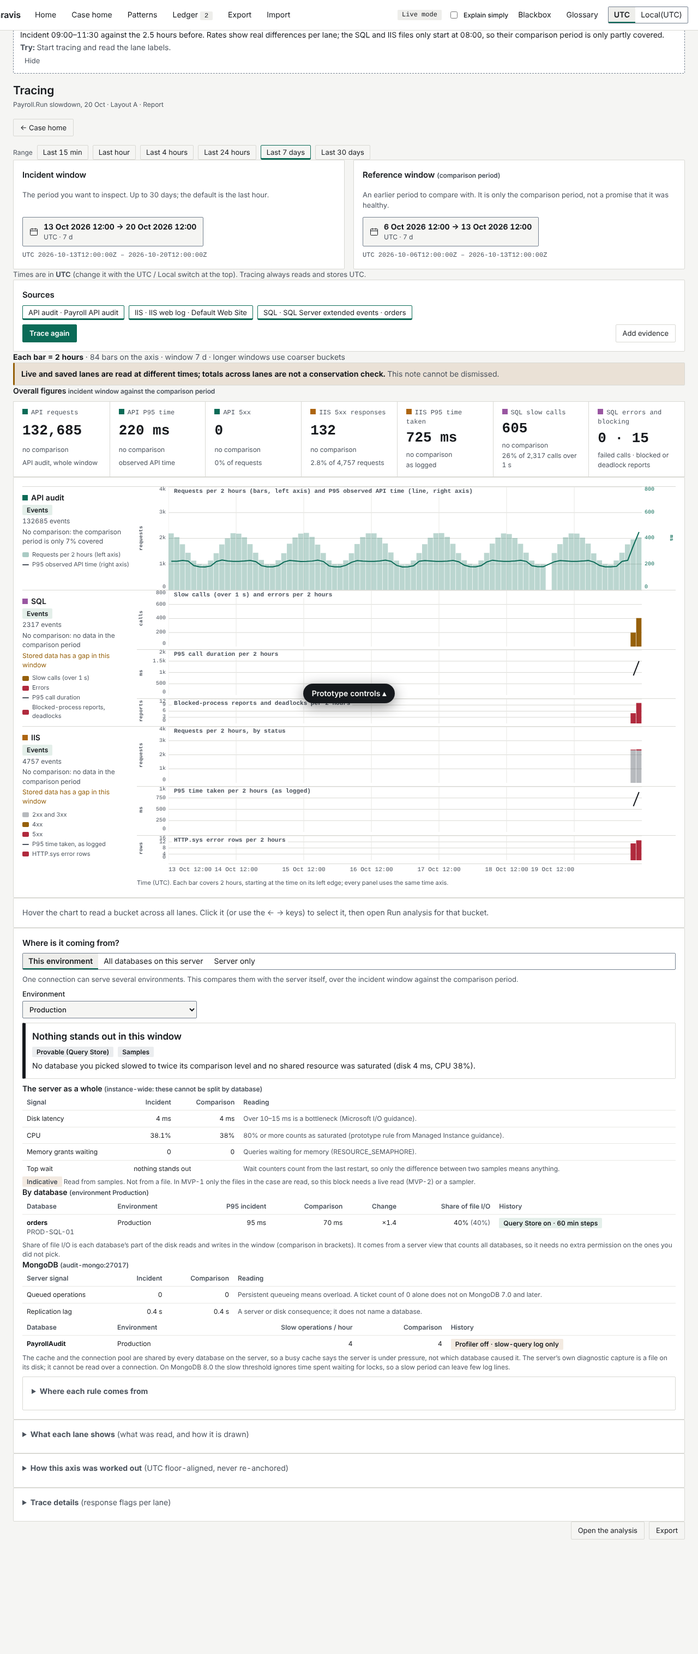
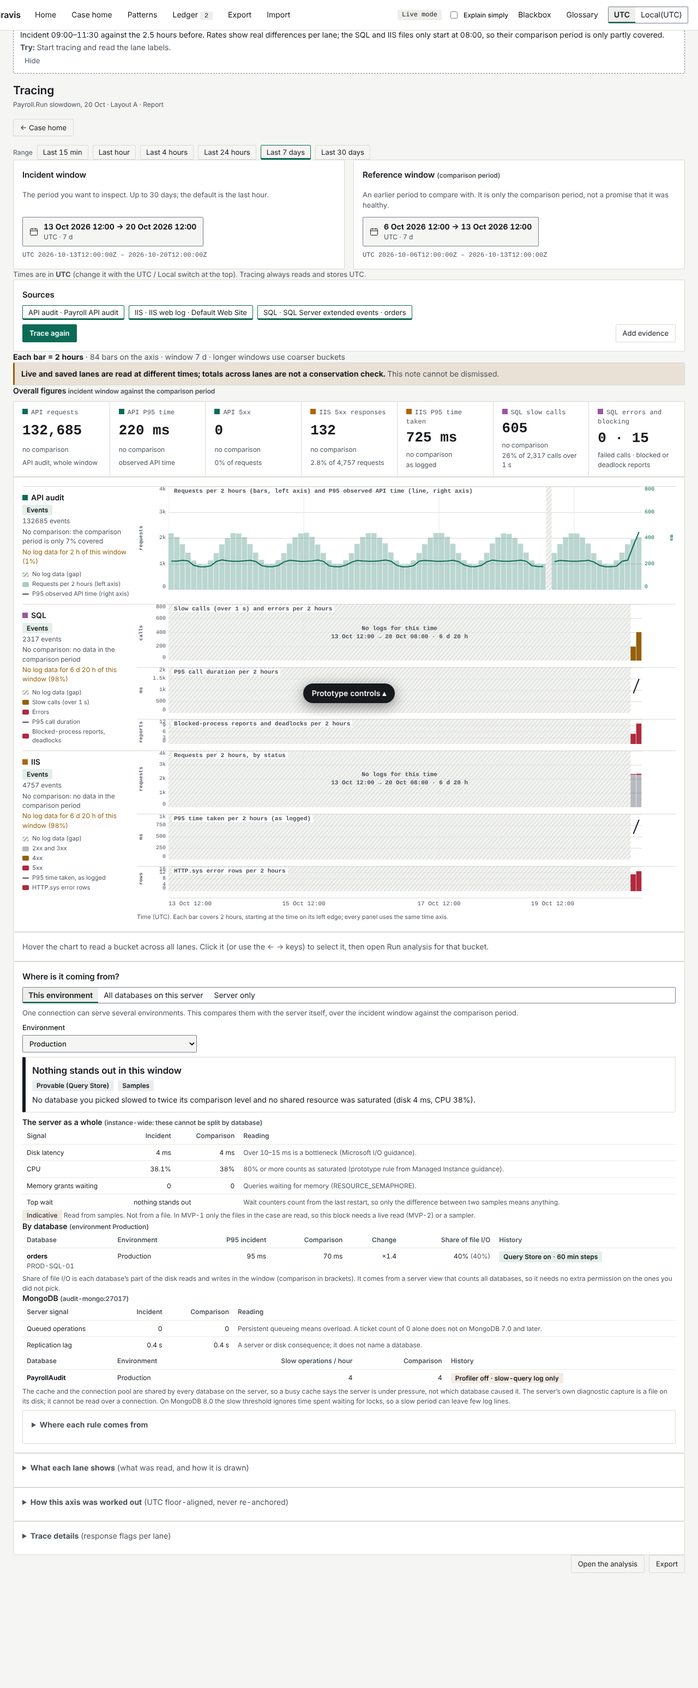
Prototype: every lane spans the whole window; missing log time is a labelled gap
Claude-Session: https://claude.ai/code/session_01BUytozocgnrWPT9uUCHJxQ

diff --git a/prototype/tracing-paper-PROTOTYPE.html b/prototype/tracing-paper-PROTOTYPE.html
@@ -138,7 +138,7 @@ pre.json { margin:0; padding:8px; background:var(--bg); border:1px solid var(--l
 .tc2 .yax { position:relative; border-top:1px solid var(--line); font:10px var(--mono); color:var(--text-2); } .tc2 .yax .t { position:absolute; pointer-events:none; line-height:1; } .tc2 .yax .u { position:absolute; left:3px; top:50%; transform:translateY(-50%) rotate(180deg); writing-mode:vertical-rl; font-weight:600; font-size:9px; letter-spacing:.03em; white-space:nowrap; } .tc2 .yax.r .u { left:auto; right:3px; transform:translateY(-50%); writing-mode:vertical-rl; color:var(--accent); } .tc2 .yax.r .t { color:var(--accent); }
 @media (max-width:700px) { .tc2 { grid-template-columns:92px 34px minmax(0, 1fr) 40px; } .tc2 .lgs { display:none; } .tc2 .yax .u { display:none; } }
 .tc2 .axisrow { height:24px; } .tc2 .axcap { font-size:11px; color:var(--text-2); padding:4px 0 2px; } .tc2 .plot { display:none; }
-.tscroll { overflow-x:auto; max-width:100%; } .attr, .attr > .stack, .attr .tscroll { min-width:0; } .attr > .stack { display:grid; grid-template-columns:minmax(0, 1fr); } .dbrow { display:grid; gap:4px; padding:var(--s2) 0; border-bottom:1px solid var(--line); } .dbrow:last-of-type { border-bottom:0; }
+.tc2 .gaplab { position:absolute; top:50%; transform:translateY(-50%); z-index:1; text-align:center; font:600 11px var(--mono); color:var(--text-2); pointer-events:none; line-height:1.4; } .tc2 .lg i.gapsw { background:repeating-linear-gradient(135deg, #8fa39a 0 2px, transparent 2px 5px), var(--surface-2) !important; border:1px solid var(--line); } .tscroll { overflow-x:auto; max-width:100%; } .attr, .attr > .stack, .attr .tscroll { min-width:0; } .attr > .stack { display:grid; grid-template-columns:minmax(0, 1fr); } .dbrow { display:grid; gap:4px; padding:var(--s2) 0; border-bottom:1px solid var(--line); } .dbrow:last-of-type { border-bottom:0; }
 .verdict { border:1px solid var(--line); border-left-width:6px; border-radius:var(--r); padding:var(--s3); background:var(--surface); display:grid; gap:6px; } .verdict h4 { margin:0; font-size:17px; } .verdict.env { border-left-color:var(--lane-sql); } .verdict.server { border-left-color:var(--bad); } .verdict.noisy { border-left-color:var(--warn); } .verdict.blind { border-left-color:var(--text-2); } .verdict.quiet { border-left-color:var(--ok); }
 .shbar { display:inline-block; height:8px; border-radius:2px; background:var(--lane-sql); vertical-align:middle; min-width:2px; } .shbar.oth { background:var(--warn); }
 .num { font-variant-numeric:tabular-nums; text-align:right; }
@@ -1176,7 +1176,7 @@ function doTrace(c) {
   const lanes = ['audit', 'sql', 'iis'].map(key => { const L = { key, label:{ audit:'API audit', sql:'SQL', iis:'IIS' }[key] }, chs = chosen.filter(s => s.lane === key); Object.assign(L, { sources:chs.map(s => ({ sourceId:s.id, label:s.label })), truncated:false });
     const refCmp = (tot, refTot, cov, refP95) => (cov >= 0.8 && refTot >= SUFFICIENT_REF ? { rate:(tot / (incSpan / MIN)) / (refTot / (refSpan / MIN)), refTot, refP95 } : { rate:null, refTot, why:refTot === 0 ? 'no data in the comparison period' : cov < 0.8 ? 'the comparison period is only ' + Math.round(cov * 100) + '% covered' : 'too few events in the comparison period' });
     if (!chs.length) return Object.assign(L, { state:'no-data', reason:'This case has no file for this source', origin:'case', asOf:isoZ(NOW), consistency:'stored-as-of', complete:true, total:0, buckets:null });
-    if (key === 'audit') { const as = auditSlots(ax), counts = as.counts, tot = sum(counts), ra = auditWindow(ref.start, ref.end), over = RT.sim.auditOver, ia = auditWindow(q.start, q.end); L.series = { p95:as.p95 }; L.stats = { inc:{ n:ia.n, c4:ia.e4, c5:ia.e5, p95:ia.p95 }, ref:{ n:ra.n, c4:ra.e4, c5:ra.e5, p95:ra.p95 } };
+    if (key === 'audit') { const as = auditSlots(ax), counts = as.counts, tot = sum(counts), ra = auditWindow(ref.start, ref.end), over = RT.sim.auditOver, ia = auditWindow(q.start, q.end); L.gapIv = auditGaps(q.start, q.end); L.series = { p95:as.p95 }; L.stats = { inc:{ n:ia.n, c4:ia.e4, c5:ia.e5, p95:ia.p95 }, ref:{ n:ra.n, c4:ra.e4, c5:ra.e5, p95:ra.p95 } };
       if (RT.sim.auditFail) return Object.assign(L, { state:'incomplete', reason:'error: The audit source could not be reached. Nothing was shortened.', origin:'live', asOf:isoZ(NOW), consistency:'live-non-snapshot', complete:false, total:0, buckets:new Array(ax.n).fill(0), incompleteFrom:0 });
       if (!tot) return Object.assign(L, { state:'none-seen', reason:'Nothing was seen in this window. The audit source keeps records from ' + fmtDT(DATA_FROM, { zone:'UTC', year:true, zoneLabel:true }) + '.', origin:'live', asOf:isoZ(NOW), consistency:'live-non-snapshot', complete:true, total:0, buckets:null, cmp:refCmp(0, ra.n, ra.coverage) });
       return Object.assign(L, over ? { state:'incomplete', reason:'timeout: The audit read reached its time or row limit; nothing was shortened.', origin:'live', asOf:isoZ(NOW), consistency:'live-non-snapshot', complete:false, total:sum(counts.map((x, i) => (i < Math.floor(ax.n * 0.4) ? x : 0))), buckets:counts.map((x, i) => (i < Math.floor(ax.n * 0.4) ? x : 0)), incompleteFrom:Math.floor(ax.n * 0.4), cmp:refCmp(tot, ra.n, ra.coverage, ra.p95) } : { state:'events', reason:'', origin:'live', asOf:isoZ(NOW), consistency:'live-non-snapshot', complete:true, total:tot, buckets:counts, note:'Read began at ' + isoZ(NOW) + '. Not a snapshot; rows inserted during the read may be included.', cmp:refCmp(tot, ra.n, ra.coverage, ra.p95) }); }
@@ -1186,7 +1186,7 @@ function doTrace(c) {
     if (!imps.some(i => i.to > q.start && i.from < q.end)) return Object.assign(L, common, { state:'out-of-range', reason:'Files do not cover this time', complete:true, total:0, buckets:null, cmp:null });
     L.stats = { inc:laneWin(key, imps, q.start, q.end), ref:laneWin(key, imps, ref.start, ref.end) };
     const lb = laneBuckets(key, imps, ax), gaps = gapsOf(imps, q.start, q.end), edgeBad = RT.sim.edgeOver && ax.scans.length > 0, rs0 = laneStats(key, imps, ref.start, ref.end), rt = rs0.n, rc = coverageFraction(imps, ref.start, ref.end);
-    Object.assign(L, common, { total:lb.total, buckets:lb.counts, series:lb.series, complete:!edgeBad, coverageGaps:gaps.map(g => fmtDT(g.from) + ' → ' + fmtDT(g.to)), cmp:refCmp(lb.total, rt, rc, rs0.p95), gapFrac:gaps.reduce((s, g) => s + g.to - g.from, 0) / incSpan });
+    Object.assign(L, common, { total:lb.total, buckets:lb.counts, series:lb.series, complete:!edgeBad, coverageGaps:gaps.map(g => fmtDT(g.from) + ' → ' + fmtDT(g.to)), gapIv:gaps, cmp:refCmp(lb.total, rt, rc, rs0.p95), gapFrac:gaps.reduce((s, g) => s + g.to - g.from, 0) / incSpan });
     if (!lb.total) { L.state = 'none-seen'; L.reason = 'Files cover this time and nothing was seen'; L.buckets = null; } else if (edgeBad) { L.state = 'incomplete'; L.reason = 'rowcap: a boundary fragment went over MaxEdgeScanRows (50,000); affected buckets are not exact'; } else L.state = 'events'; return L; });
   return { status:200, window:{ start:isoZ(q.start), end:isoZ(q.end) }, reference:{ start:isoZ(q.refStart), end:isoZ(q.refEnd) }, bucketSeconds:ax.W / 1000, bucketCount:ax.n, disabled:null, lanes, allLanesStored:lanes.every(l => l.origin === 'case'), mixedConsistency:lanes.some(l => l.consistency === 'live-non-snapshot'), warnings:chk.warnings, requestSeq:RT.reqSeq, _axis:ax };
 }
@@ -1217,12 +1217,16 @@ function laneSVG(l, ax, mini) {
   if (refP) g += '<line x1="0" x2="1000" y1="' + (base - ih * refP / maxP) + '" y2="' + (base - ih * refP / maxP) + '" stroke="var(--ref)" stroke-dasharray="5 4" stroke-width="1.5" vector-effect="non-scaling-stroke"/>';
   return '<svg viewBox="0 0 1000 100" preserveAspectRatio="none" aria-hidden="true">' + g + '</svg>' + (mini ? '' : '<span class="yl" style="left:2px">' + max + '</span>' + (maxP > 1 && p.some(Boolean) ? '<span class="yl" style="right:2px;text-align:right">' + Math.round(maxP) + ' ms</span>' : ''));
 }
-const tipLine = (l, k) => { const sr = l.series || {}, n = l.buckets ? l.buckets[k] : 0, p = sr.p95 && sr.p95[k] ? Math.round(sr.p95[k]) + ' ms' : '–'; if (!l.buckets) return '–'; if (l.key === 'iis') return n + ' requests (' + (sr.c4 ? sr.c4[k] : 0) + ' 4xx, ' + (sr.c5 ? sr.c5[k] : 0) + ' 5xx) · P95 time-taken ' + p + (sr.mark && sr.mark[k] ? ' · ' + sr.mark[k] + ' HTTP.sys error' : ''); if (l.key === 'sql') return n + ' calls (' + (sr.slow ? sr.slow[k] : 0) + ' slow, ' + (sr.err ? sr.err[k] : 0) + ' errors) · P95 ' + p + (sr.mark && sr.mark[k] ? ' · blocked/deadlock ×' + sr.mark[k] : ''); return n + ' requests · P95 ' + p; };
+const tipLine = (l, k, sl) => { if (sl && slotInGap(l, sl)) return '<i>no log data for this time</i>'; const sr = l.series || {}, n = l.buckets ? l.buckets[k] : 0, p = sr.p95 && sr.p95[k] ? Math.round(sr.p95[k]) + ' ms' : '–'; if (!l.buckets) return '–'; if (l.key === 'iis') return n + ' requests (' + (sr.c4 ? sr.c4[k] : 0) + ' 4xx, ' + (sr.c5 ? sr.c5[k] : 0) + ' 5xx) · P95 time-taken ' + p + (sr.mark && sr.mark[k] ? ' · ' + sr.mark[k] + ' HTTP.sys error' : ''); if (l.key === 'sql') return n + ' calls (' + (sr.slow ? sr.slow[k] : 0) + ' slow, ' + (sr.err ? sr.err[k] : 0) + ' errors) · P95 ' + p + (sr.mark && sr.mark[k] ? ' · blocked/deadlock ×' + sr.mark[k] : ''); return n + ' requests · P95 ' + p; };
 /* ---- the trace board (owner feedback, round 8): every panel has a labelled y-axis and shares one time axis; each bar is one bucket and says so ---- */
 function niceTop(v) { if (!(v > 0)) return 4; const e = Math.pow(10, Math.floor(Math.log10(v / 4))); for (const f of [1, 2, 2.5, 5, 10]) if (4 * f * e >= v) return 4 * f * e; return 40 * e; }
 const stripTop = v => Math.max(4, Math.ceil(v / 4) * 4);
 const tickTxt = v => (v >= 10000 ? Math.round(v / 1000) + 'k' : v >= 1000 ? r1(v / 1000) + 'k' : Number.isInteger(v) ? String(v) : String(r1(v)));
 function xTicks(ax) { const step = [1, 2, 3, 4, 6, 8, 12, 24, 48, 96].find(s => Math.ceil(ax.n / s) <= 6) || 96, out = []; for (let k = 0; k < ax.n; k += step) out.push({ k, at:ax.axisStart + k * ax.W }); return out; }
+function auditGaps(start, end) { const out = []; let cur = null; for (let m = Math.floor(start / MIN); m < Math.ceil(end / MIN); m++) { const a = Math.max(m * MIN, start), b = Math.min((m + 1) * MIN, end); if (!available(m)) { if (cur && cur.to === a) cur.to = b; else { cur = { from:a, to:b }; out.push(cur); } } } return out; }
+const gapMs = l => (l.gapIv || []).reduce((x, g) => x + (g.to - g.from), 0);
+const slotInGap = (l, sl) => (l.gapIv || []).some(g => g.from <= sl.lo && g.to >= sl.hi);
+const gapX = (ax, t) => 1000 * clamp((t - ax.axisStart) / (ax.n * ax.W), 0, 1);
 function laneWin(lane, imps, start, end) { const o = { n:0, c4:0, c5:0, slow:0, err:0, mark:0, w:0 }; for (const im of imps) for (let m = Math.ceil(Math.max(im.from, start) / MIN); m * MIN < Math.min(im.to, end); m++) { const v = metricMinute(lane, m); if (!v) continue; o.n += v.n; o.c4 += v.c4; o.c5 += v.c5; o.slow += v.slow; o.err += v.err; o.mark += v.mark; o.w += v.p95 * v.n; } o.p95 = o.n ? o.w / o.n : null; return o; }
 const maxOf = a => Math.max(0, ...(a || []).filter(x => x != null));
 function lanePanels(l, ax) {
@@ -1236,27 +1240,28 @@ function panelSVG(l, ax, pn) {
   const slot = 1000 / ax.n, H = pn.h, top = pn.left.top, bad = s => l.state === 'incomplete' && ((l.key === 'audit' && s.k >= l.incompleteFrom) || (l.key !== 'audit' && s.frag)); let g = '';
   for (let i = 1; i <= 4; i++) g += '<line x1="0" x2="1000" y1="' + (H - H * i / 4) + '" y2="' + (H - H * i / 4) + '" stroke="var(--line)" vector-effect="non-scaling-stroke"/>';
   xTicks(ax).forEach(t => { g += '<line x1="' + t.k * slot + '" x2="' + t.k * slot + '" y1="0" y2="' + H + '" stroke="var(--line-soft)" vector-effect="non-scaling-stroke"/>'; });
+  (l.gapIv || []).forEach(gp => { const x0 = gapX(ax, gp.from), x1 = gapX(ax, gp.to); if (x1 > x0) g += '<rect x="' + x0 + '" y="0" width="' + (x1 - x0) + '" height="' + H + '" fill="var(--surface-2)" opacity=".7"/><rect x="' + x0 + '" y="0" width="' + (x1 - x0) + '" height="' + H + '" fill="url(#h-' + l.key + ')" opacity=".55"/>'; });
   const col = 'var(--lane-' + l.key + ')';
   ax.slots.forEach(s => { const x = s.k * slot, w = Math.max(0.6, slot - 0.8); if (s.empty) { g += '<rect x="' + x + '" y="' + (H - 2) + '" width="' + w + '" height="3" fill="var(--pending)" opacity=".4"/>'; return; }
     if (bad(s)) g += '<rect x="' + x + '" y="0" width="' + w + '" height="' + H + '" fill="url(#h-' + l.key + ')"/>';
     const clip = s.clipped ? ' stroke="var(--warn)" stroke-dasharray="2 1" vector-effect="non-scaling-stroke"' : '';
     if (pn.kind === 'audit') { const h = H * (l.buckets[s.k] || 0) / top; if (h > 0) g += '<rect x="' + x + '" y="' + (H - h) + '" width="' + w + '" height="' + h + '" fill="var(--accent)" opacity="' + (bad(s) ? .15 : .28) + '"' + clip + '/>'; }
     if (pn.kind === 'stack') { let y = H; pn.segs.forEach(([, arr, fill, op]) => { const h = H * (arr[s.k] || 0) / top; if (h > 0) { y -= h; g += '<rect x="' + x + '" y="' + y + '" width="' + w + '" height="' + h + '" fill="' + fill + '" opacity="' + op + '"' + clip + '/>'; } }); } });
-  if (pn.kind === 'audit' || pn.kind === 'line') { const tp = pn.kind === 'audit' ? pn.right.top : pn.left.top, pts = []; ax.slots.forEach(s => { if (!s.empty && pn.vals[s.k]) pts.push((s.k * slot + slot / 2) + ',' + (H - H * pn.vals[s.k] / tp)); });
-    if (pts.length > 1) g += '<polyline fill="none" stroke="' + (pn.kind === 'audit' ? 'var(--accent)' : 'var(--text)') + '" stroke-width="2" vector-effect="non-scaling-stroke" points="' + pts.join(' ') + '"/>';
+  if (pn.kind === 'audit' || pn.kind === 'line') { const tp = pn.kind === 'audit' ? pn.right.top : pn.left.top, segs = []; let cur = null; ax.slots.forEach(s => { if (!s.empty && pn.vals[s.k] && !slotInGap(l, s)) { if (!cur) { cur = []; segs.push(cur); } cur.push((s.k * slot + slot / 2) + ',' + (H - H * pn.vals[s.k] / tp)); } else cur = null; });
+    segs.forEach(pts => { if (pts.length > 1) g += '<polyline fill="none" stroke="' + (pn.kind === 'audit' ? 'var(--accent)' : 'var(--text)') + '" stroke-width="2" vector-effect="non-scaling-stroke" points="' + pts.join(' ') + '"/>'; else { const [x, y] = pts[0].split(','); g += '<circle cx="' + x + '" cy="' + y + '" r="2.5" fill="' + (pn.kind === 'audit' ? 'var(--accent)' : 'var(--text)') + '"/>'; } });
     if (pn.ref) g += '<line x1="0" x2="1000" y1="' + (H - H * pn.ref / tp) + '" y2="' + (H - H * pn.ref / tp) + '" stroke="var(--ref)" stroke-dasharray="5 4" stroke-width="1.5" vector-effect="non-scaling-stroke"/>'; }
   return '<svg viewBox="0 0 1000 ' + H + '" preserveAspectRatio="none" aria-hidden="true"><defs><pattern id="h-' + l.key + '" width="6" height="6" patternUnits="userSpaceOnUse" patternTransform="rotate(45)"><line x1="0" y1="0" x2="0" y2="6" stroke="#8fa39a" stroke-width="2" opacity=".7"/></pattern></defs>' + g + '</svg>';
 }
 const yTicks = (ax, side, unit, top) => '<span class="u">' + esc(unit) + '</span>' + [0, 1, 2, 3, 4].map(i => '<span class="t" style="' + (i === 4 ? 'top:0;' : i === 0 ? 'bottom:0;' : 'bottom:' + i * 25 + '%;transform:translateY(50%);') + (side === 'r' ? 'left:5px;' : 'right:5px;') + '">' + tickTxt(top * i / 4) + '</span>').join('');
-function legendFor(l, ax) { const sw = (c, t, k) => '<div class="lg"><i class="' + (k || '') + '" style="background:' + c + '"></i>' + esc(t) + '</div>', per = fmtDur(ax.W);
-  if (l.key === 'audit') return sw('color-mix(in srgb, var(--accent) 35%, transparent)', 'Requests per ' + per + ' (left axis)') + sw('var(--accent)', 'P95 observed API time (right axis)', 'ln') + (l.cmp && l.cmp.refP95 ? sw('var(--ref)', 'Comparison period P95: ' + Math.round(l.cmp.refP95) + ' ms', 'dash') : '');
-  if (l.key === 'iis') return sw('color-mix(in srgb, var(--text-2) 40%, transparent)', '2xx and 3xx') + sw('var(--warn)', '4xx') + sw('var(--bad)', '5xx') + sw('var(--text)', 'P95 time taken, as logged', 'ln') + (l.cmp && l.cmp.refP95 ? sw('var(--ref)', 'Comparison period P95: ' + Math.round(l.cmp.refP95) + ' ms', 'dash') : '') + sw('var(--bad)', 'HTTP.sys error rows');
-  return sw('var(--warn)', 'Slow calls (over 1 s)') + sw('var(--bad)', 'Errors') + sw('var(--text)', 'P95 call duration', 'ln') + (l.cmp && l.cmp.refP95 ? sw('var(--ref)', 'Comparison period P95: ' + Math.round(l.cmp.refP95) + ' ms', 'dash') : '') + sw('var(--bad)', 'Blocked-process reports, deadlocks'); }
+function legendFor(l, ax) { const sw = (c, t, k) => '<div class="lg"><i class="' + (k || '') + '" style="background:' + c + '"></i>' + esc(t) + '</div>', per = fmtDur(ax.W), gapLg = gapMs(l) > 0 ? '<div class="lg"><i class="gapsw"></i>No log data (gap)</div>' : '';
+  if (l.key === 'audit') return gapLg + sw('color-mix(in srgb, var(--accent) 35%, transparent)', 'Requests per ' + per + ' (left axis)') + sw('var(--accent)', 'P95 observed API time (right axis)', 'ln') + (l.cmp && l.cmp.refP95 ? sw('var(--ref)', 'Comparison period P95: ' + Math.round(l.cmp.refP95) + ' ms', 'dash') : '');
+  if (l.key === 'iis') return gapLg + sw('color-mix(in srgb, var(--text-2) 40%, transparent)', '2xx and 3xx') + sw('var(--warn)', '4xx') + sw('var(--bad)', '5xx') + sw('var(--text)', 'P95 time taken, as logged', 'ln') + (l.cmp && l.cmp.refP95 ? sw('var(--ref)', 'Comparison period P95: ' + Math.round(l.cmp.refP95) + ' ms', 'dash') : '') + sw('var(--bad)', 'HTTP.sys error rows');
+  return gapLg + sw('var(--warn)', 'Slow calls (over 1 s)') + sw('var(--bad)', 'Errors') + sw('var(--text)', 'P95 call duration', 'ln') + (l.cmp && l.cmp.refP95 ? sw('var(--ref)', 'Comparison period P95: ' + Math.round(l.cmp.refP95) + ' ms', 'dash') : '') + sw('var(--bad)', 'Blocked-process reports, deadlocks'); }
 function chartHTML(t, only) { const ax = t._axis, n = ax.n, slot = 100 / n, sel = RT.selBucket, lanes = only ? t.lanes.filter(l => l.key === only) : t.lanes; let row = 1, cells = '';
-  lanes.forEach(l => { const cmp = l.cmp, lab = '<div class="lname"><span class="leg" style="background:var(--lane-' + l.key + ')"></span>' + esc(l.label) + '</div><div>' + stateSticker(l) + '</div><div class="dim sm">' + plural(l.total, 'event') + '</div>' + (cmp ? (cmp.rate != null ? '<div class="sm" style="color:' + (cmp.rate > 1.5 ? 'var(--bad)' : 'var(--text-2)') + '">' + cmp.rate.toFixed(1) + 'x the ' + REF_LABEL.toLowerCase() + ' rate</div>' : '<div class="sm dim" title="' + esc(cmp.why || '') + '">No comparison: ' + esc(cmp.why) + '</div>') : '') + (l.state === 'incomplete' ? '<div class="warnc sm">' + esc(l.reason.split(':')[0]) + ': buckets not exact</div>' : '') + (l.coverageGaps && l.coverageGaps.length ? '<div class="warnc sm">Stored data has a gap in this window</div>' : '');
-    if (!l.buckets) { cells += '<div class="lab" style="grid-column:1;grid-row:' + row + '">' + lab + '</div><div class="pn empty" style="grid-column:2 / span 3;grid-row:' + row + ';height:76px"><span>' + esc(l.reason) + '</span></div>'; row++; return; }
+  lanes.forEach(l => { const cmp = l.cmp, lab = '<div class="lname"><span class="leg" style="background:var(--lane-' + l.key + ')"></span>' + esc(l.label) + '</div><div>' + stateSticker(l) + '</div><div class="dim sm">' + plural(l.total, 'event') + '</div>' + (cmp ? (cmp.rate != null ? '<div class="sm" style="color:' + (cmp.rate > 1.5 ? 'var(--bad)' : 'var(--text-2)') + '">' + cmp.rate.toFixed(1) + 'x the ' + REF_LABEL.toLowerCase() + ' rate</div>' : '<div class="sm dim" title="' + esc(cmp.why || '') + '">No comparison: ' + esc(cmp.why) + '</div>') : '') + (l.state === 'incomplete' ? '<div class="warnc sm">' + esc(l.reason.split(':')[0]) + ': buckets not exact</div>' : '') + (gapMs(l) > 0 ? '<div class="warnc sm">No log data for ' + esc(fmtSpan(gapMs(l))) + ' of this window (' + Math.round(100 * gapMs(l) / (Date.parse(t.window.end) - Date.parse(t.window.start))) + '%)</div>' : '');
+    if (!l.buckets) { cells += '<div class="lab" style="grid-column:1;grid-row:' + row + '">' + lab + '</div><div class="yax" style="grid-column:2;grid-row:' + row + ';height:76px"></div><div class="pn empty" style="grid-column:3;grid-row:' + row + ';height:76px"><span><b>No log data for the whole window.</b> ' + esc(l.reason) + '</span></div><div class="yax r" style="grid-column:4;grid-row:' + row + ';height:76px"></div>'; row++; return; }
     const pns = lanePanels(l, ax); cells += '<div class="lab" style="grid-column:1;grid-row:' + row + ' / span ' + pns.length + '">' + lab + '<div class="lgs">' + legendFor(l, ax) + '</div></div>';
-    pns.forEach(pn => { const rt = pn.right; cells += '<div class="yax" style="grid-column:2;grid-row:' + row + ';height:' + pn.h + 'px">' + yTicks(ax, 'l', pn.left.unit, pn.left.top) + '</div><div class="pn" style="grid-column:3;grid-row:' + row + ';height:' + pn.h + 'px"><span class="cap">' + esc(pn.title) + '</span>' + panelSVG(l, ax, pn) + (pn.ref ? '<span class="reflab" style="bottom:calc(' + (100 * pn.ref / (pn.kind === 'audit' ? pn.right.top : pn.left.top)) + '% + 2px)">comparison period P95</span>' : '') + '</div><div class="yax r" style="grid-column:4;grid-row:' + row + ';height:' + pn.h + 'px">' + (rt ? yTicks(ax, 'r', rt.unit, rt.top) : '') + '</div>'; row++; }); });
+    pns.forEach(pn => { const rt = pn.right; cells += '<div class="yax" style="grid-column:2;grid-row:' + row + ';height:' + pn.h + 'px">' + yTicks(ax, 'l', pn.left.unit, pn.left.top) + '</div><div class="pn" style="grid-column:3;grid-row:' + row + ';height:' + pn.h + 'px"><span class="cap">' + esc(pn.title) + '</span>' + panelSVG(l, ax, pn) + (pn === pns[0] ? (l.gapIv || []).filter(gp => gapX(ax, gp.to) - gapX(ax, gp.from) >= 70).map(gp => '<span class="gaplab" style="left:' + gapX(ax, gp.from) / 10 + '%;width:' + (gapX(ax, gp.to) - gapX(ax, gp.from)) / 10 + '%">No logs for this time<br>' + esc(fmtDT(gp.from) + ' → ' + fmtDT(gp.to)) + ' · ' + esc(fmtSpan(gp.to - gp.from)) + '</span>').join('') : '') + (pn.ref ? '<span class="reflab" style="bottom:calc(' + (100 * pn.ref / (pn.kind === 'audit' ? pn.right.top : pn.left.top)) + '% + 2px)">comparison period P95</span>' : '') + '</div><div class="yax r" style="grid-column:4;grid-row:' + row + ';height:' + pn.h + 'px">' + (rt ? yTicks(ax, 'r', rt.unit, rt.top) : '') + '</div>'; row++; }); });
   const tk = xTicks(ax), ticks = tk.map(x => '<span style="left:' + x.k * slot + '%">' + fmtDT(x.at) + '</span>').join(''), nr = row - 1;
   return '<div class="tc tc2" id="tc">' + cells + '<div class="axisrow" style="grid-column:3;grid-row:' + row + '">' + ticks + '</div><div class="axcap" style="grid-column:2 / span 3;grid-row:' + (row + 1) + '">Time (' + esc(zoneName()) + '). Each bar covers ' + esc(fmtDur(ax.W)) + ', starting at the time on its left edge; every panel uses the same time axis. ' + (ax.n > ax.inWindow ? 'Grey dashes are slots outside your window.' : '') + '</div><div class="ov" id="ov" tabindex="0" role="group" aria-roledescription="bucket selector" aria-label="Time buckets. Left and right arrow keys move, Enter opens Run analysis for the selected bucket." style="grid-column:3;grid-row:1 / span ' + nr + '"><div class="hov"></div>' + (sel != null ? '<div class="selc" style="left:' + sel * slot + '%;width:' + slot + '%"></div>' : '') + '</div></div>'; }
 /* statistic cards above the charts: the same figures the analysis shows for the audit lane, plus what matters for IIS and SQL */
@@ -1321,7 +1326,7 @@ ACT.ovKey = e => { const t = U.tr.result; if (!t || !t._axis) return; const slot
 document.addEventListener('click', e => { const ov = e.target.closest && e.target.closest('#ov'); const t = U.tr.result; if (ov && t && t._axis) { const r = ov.getBoundingClientRect(); RT.selBucket = clamp(Math.floor((e.clientX - r.left) / r.width * t._axis.n), 0, t._axis.n - 1); RT.focusOv = true; render(); } });
 document.addEventListener('mousemove', e => { const tip = document.getElementById('tip'), ov = e.target.closest && e.target.closest('#ov'), t = U.tr.result; if (!ov || !t || !t._axis) { tip.style.display = 'none'; document.querySelectorAll('.hov').forEach(h => h.style.display = 'none'); return; }
   const ax = t._axis, r = ov.getBoundingClientRect(), k = clamp(Math.floor((e.clientX - r.left) / r.width * ax.n), 0, ax.n - 1), sl = ax.slots[k], h = ov.querySelector('.hov'); h.style.display = 'block'; h.style.left = k * 100 / ax.n + '%'; h.style.width = 100 / ax.n + '%';
-  tip.innerHTML = '<b class="mono">' + fmtDT(sl.s) + ' → ' + fmtDT(sl.e) + '</b>' + (sl.empty ? '<br>outside your window' : t.lanes.map(l => '<br><b>' + l.label + ':</b> ' + tipLine(l, k)).join('') + (sl.clipped ? '<br><span class="warnc">clipped to window edge</span>' : '')); tip.style.display = 'block'; tip.style.left = Math.min(e.clientX + 14, innerWidth - 240) + 'px'; tip.style.top = (e.clientY + 14) + 'px'; });
+  tip.innerHTML = '<b class="mono">' + fmtDT(sl.s) + ' → ' + fmtDT(sl.e) + '</b>' + (sl.empty ? '<br>outside your window' : t.lanes.map(l => '<br><b>' + l.label + ':</b> ' + tipLine(l, k, sl)).join('') + (sl.clipped ? '<br><span class="warnc">clipped to window edge</span>' : '')); tip.style.display = 'block'; tip.style.left = Math.min(e.clientX + 14, innerWidth - 240) + 'px'; tip.style.top = (e.clientY + 14) + 'px'; });
 /* ---- MVP-2: live SQL pulls (an observation = source + lane + fingerprint + window), coverage ledger ---- */
 const SIM = () => RT.sim;
 RT.sim = { auditOver:false, auditFail:false, edgeOver:false, fail:'none' }; RT.up = { late:0, restated:0 };
@@ -1566,7 +1571,7 @@ const ASSUMPTIONS = [
   '“Where is it coming from?” appears under the tracing chart once a trace has run, when the case has a SQL Server or MongoDB connection. Verdicts: One environment, Server-wide, Noisy neighbour, Cannot tell, or Nothing stands out. All numbers are synthetic and chosen by the scenario in the prototype panel. Rules marked “sourced” in the card come from vendor documentation read in the research; the way they combine into a verdict is a prototype inference, not stated by any source.',
   'The share of file I/O of databases the user did not pick is shown as one unnamed “Other databases” row (owner decision: option a). Names are hidden unless the user presses Show their names; the card warns to hide them before sharing the export. A server-wide permission cannot hide those names from the account itself, so the hiding is only in what Unravis shows and keeps.',
   'Server-wide counters (waits, file I/O, CPU, cumulative since the last restart) cannot describe a past window without samples. With no samples the card shows no numbers and says so, instead of drawing a made-up value. MongoDB’s own diagnostic capture is a file on the server’s disk and is not reachable over a connection.',
-  'Trace board (round 8): overall figure cards sit above the charts (API requests, P95, 5xx; IIS 5xx and P95 time taken; SQL slow calls, errors and blocking). Every panel has a titled, labelled y-axis, a legend in the left column, and all panels share one time axis; each bar is one bucket and the caption says how long it is. API audit repeats the analysis chart: requests per bucket (left axis), P95 observed API time (right axis), dashed comparison-period P95. IIS is split in three panels (requests by status class, P95 time taken, HTTP.sys error rows) and SQL in three (slow calls and errors, P95 call duration, blocked-process reports and deadlocks). Removed as not useful at this level: SQL total-call bars (volume is in the SQL cards), the per-lane Live/Stored and as-of lines (they are in Trace details), the diamonds that squeezed markers onto the line. All numbers are synthetic.',
+  'Trace board (round 8): overall figure cards sit above the charts (API requests, P95, 5xx; IIS 5xx and P95 time taken; SQL slow calls, errors and blocking). Every panel has a titled, labelled y-axis, a legend in the left column, and all panels share one time axis; each bar is one bucket and the caption says how long it is. API audit repeats the analysis chart: requests per bucket (left axis), P95 observed API time (right axis), dashed comparison-period P95. IIS is split in three panels (requests by status class, P95 time taken, HTTP.sys error rows) and SQL in three (slow calls and errors, P95 call duration, blocked-process reports and deadlocks). Removed as not useful at this level: SQL total-call bars (volume is in the SQL cards), the per-lane Live/Stored and as-of lines (they are in Trace details), the diamonds that squeezed markers onto the line. Every lane is plotted across the whole window: time with no log data (before a file starts, after it ends, an audit recording outage) is a labelled gap, never a row of zero-height bars. All numbers are synthetic.',
   'Fonts: IBM Plex is not bundled in this offline file, so system fonts stand in. The theme follows the system, like the app.',
   'Not expanded: Mongo connection details beyond address/test/save, Blackbox installer, Discover detectors beyond the six fake findings, the Details/Ranges filter groups, zoom strip actions, Patterns beyond three canned patterns, CSV/CSV content, real file pickers (a list of fake files is used).',
 ];

diff --git a/prototype/FLOW-COVERAGE.md b/prototype/FLOW-COVERAGE.md
@@ -133,6 +133,7 @@ Fidelity: **Full** = layout order, labels, validation and outcomes reproduced; *
 | 64d | MongoDB block: server signals, per-database profiler/log chip, limits (shared cache, diagnostic capture not reachable, 8.0 slow threshold) | research | same card | `attrCard` | MVP-1/2 | No Mongo verdict; Mongo is shown beside the SQL verdict. |
 | 64e | Case home **Databases** block grouped by connection (environment, history chip) | owner request | Case home | `dbBlock` | MVP-1 | New block, not in the app today. |
 | 64f | **Trace board** (round 8): overall figure cards above the charts; per-panel titled y-axes; shared time axis with the bar size stated; audit panel = the analysis chart; IIS and SQL in three panels each; irrelevant values removed | owner feedback; `Pulse.svelte`, `heroChart` | tracing, all layouts | `chartHTML`, `lanePanels`, `panelSVG`, `traceStats` | MVP-1 | SQL/IIS cards show "no comparison" when the comparison period is not covered. |
+| 64h | **Equal timeline for every lane**: each lane is plotted across the whole window; time with no log data (before a file starts, after it ends, an audit recording outage) is a labelled hatched gap with its exact range and length, and the tooltip says "no log data for this time"; a lane with no file is a hatched band across the same timeline | owner feedback | tracing | `auditGaps`, `gapIv`, `panelSVG`, `chartHTML` | MVP-1 | Gaps are computed from stored import ranges (SQL, IIS) and the audit source's recording history. |
 | 64g | Window cards aligned (incident and reference pickers on one line) | owner feedback | tracing | `.winpair` | — | — |
 | 64 | Not shown (Later): route filter, persisted trace window, win32 series, call-trace deep link, delta overlay | TR-14, TR-17, D-11, D-12 | — | — | Later | Intentionally absent. |
 
@@ -156,7 +157,7 @@ Fidelity: **Full** = layout order, labels, validation and outcomes reproduced; *
 
 ## Verification
 
-`node prototype/flow-check.cjs [screenshot-dir]` drives the prototype in Chromium: 146 checks covering all three start-card journeys, code and restore validation, the create guide (validation, Back/Next, leave, failed source, retry), protected-case unlock, closed/archived/legacy/failed-load states, tracing → analysis → evidence → record → back with both windows preserved, both window rules, export 409, launch conditions, MVP-2 pulls, keyboard on the chart, browser Back/Forward and narrow layouts, and (section K) one connection with several databases, the four verdicts, unnamed neighbours, no-history, the MongoDB block and the case-home Databases block. Results are in the commit message and the final report.
+`node prototype/flow-check.cjs [screenshot-dir]` drives the prototype in Chromium: 150 checks covering all three start-card journeys, code and restore validation, the create guide (validation, Back/Next, leave, failed source, retry), protected-case unlock, closed/archived/legacy/failed-load states, tracing → analysis → evidence → record → back with both windows preserved, both window rules, export 409, launch conditions, MVP-2 pulls, keyboard on the chart, browser Back/Forward and narrow layouts, and (section K) one connection with several databases, the four verdicts, unnamed neighbours, no-history, the MongoDB block and the case-home Databases block. Results are in the commit message and the final report.
 
 ## Lane chart research (what each lane captures and how it is drawn)
 
